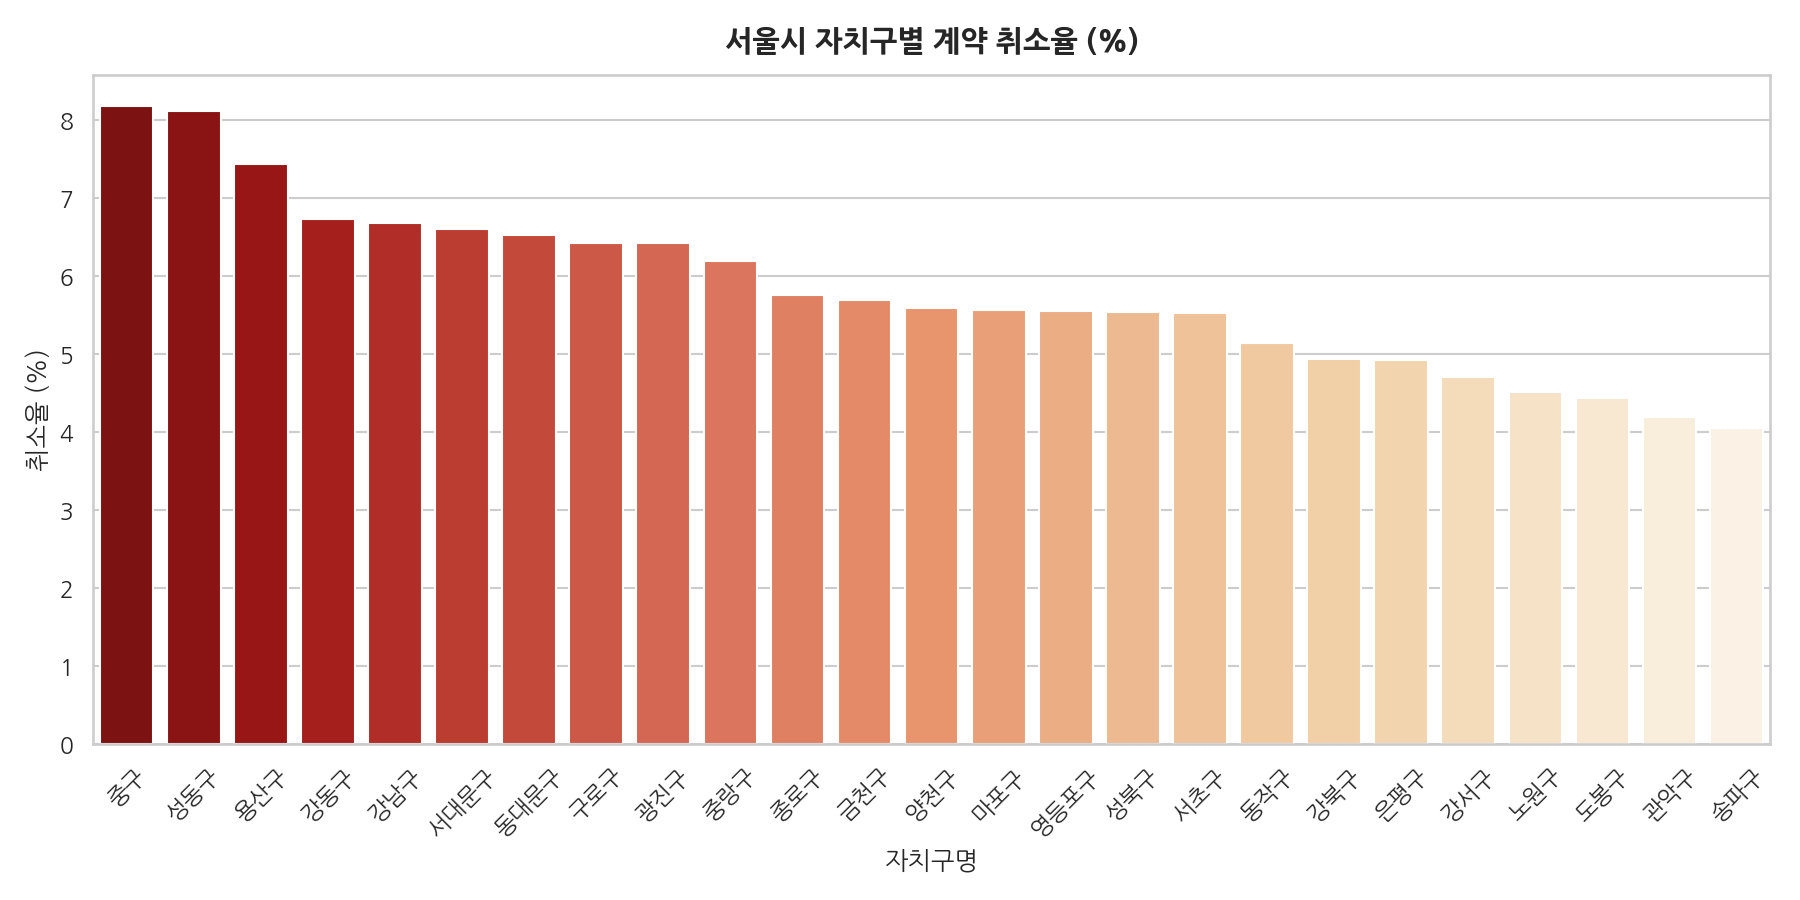
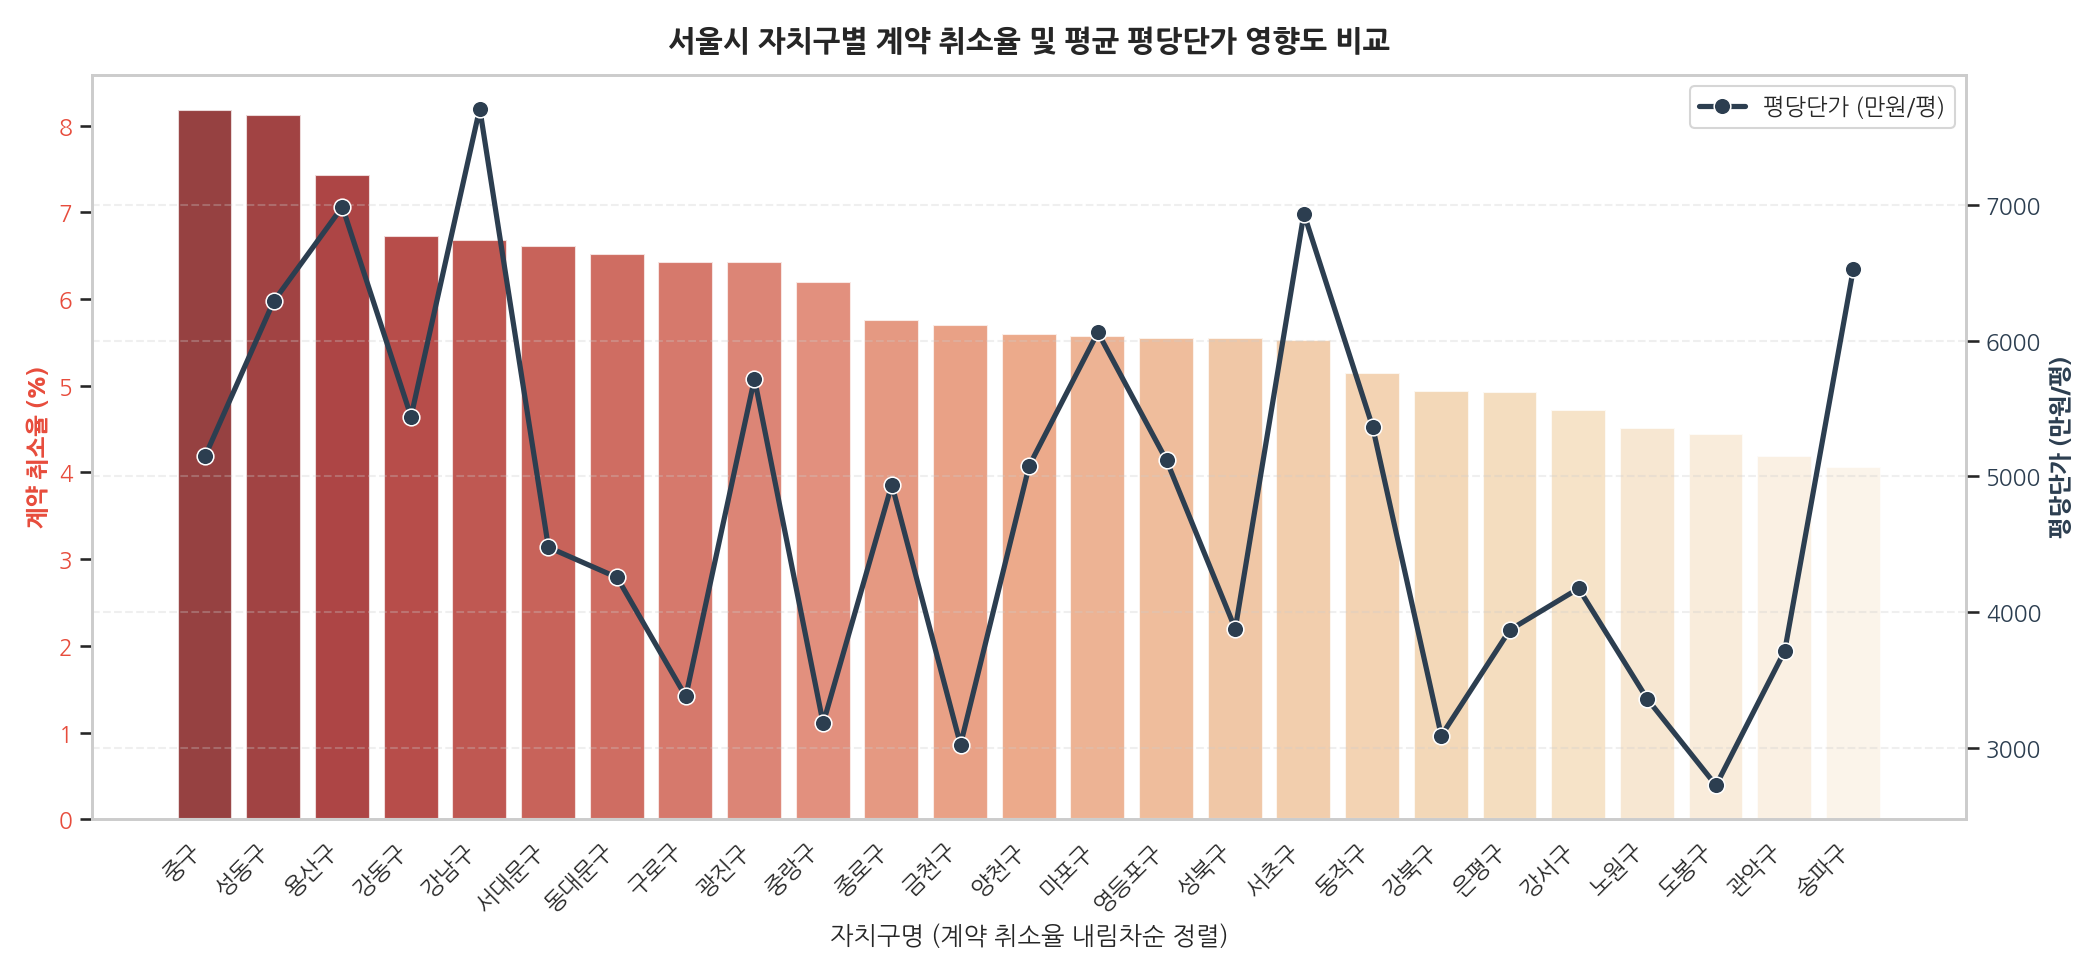
Enhance D1 cancel rate chart with twin-axis unit price line and update descriptions

diff --git a/pages/seoul-apartment-eda.md b/pages/seoul-apartment-eda.md
@@ -129,13 +129,14 @@ tags: ["pandas", "EDA", "시각화", "아파트실거래가"]
 ## 📊 시나리오 D. 거래 특이사항의 지역별 분포
 > **질문**: 계약 취소나 직거래 비율이 특정 자치구에 집중적으로 나타나는가?
 
-### ① 자치구별 계약 취소율 분석
-전체 실거래 신고 건수 대비 취소된 거래의 비중을 자치구별로 조사하였습니다.
+### ① 자치구별 계약 취소율 및 평당단가 영향도 분석
+전체 실거래 신고 건수 대비 취소된 거래의 비중을 자치구별로 조사하고, 자치구별 평균 평당단가(꺾은선)를 이중 축으로 함께 결합하여 취소율과의 연관성을 분석했습니다.
 
-![자치구별 계약 취소율](../images/D1_gu_cancel_rate.png)
+![자치구별 계약 취소율 및 평당단가](../images/D1_gu_cancel_rate.png)
 
 > **인사이트 💡**
-> 서울시 아파트의 평균 계약 취소율은 **5.70%** 수준으로 나타났으며, 특히 **중구(8.18%)**를 필두로 강남권 및 도심권 일부 지역에서 취소 비율이 높게 집계되었습니다. 단가가 높고 시장 관심도가 큰 지역일수록 호가 띄우기를 위한 자전거래 목적 혹은 계약 조건 변경에 따른 거래 취소 건의 모니터링 필요성이 제기됩니다.
+> 서울시 아파트의 평균 계약 취소율은 **5.70%** 수준으로 나타났으며, 특히 **중구(8.18%)**를 필두로 강남구, 성동구, 용산구 등 아파트 평당 단가(꺾은선)가 높게 형성된 고가 주거 밀집 지역들이 취소율 상위권에 대거 포진하고 있음이 실증되었습니다. 
+> 단가가 높고 자금 유입이 활발한 지역일수록 거래 파기율이 높다는 사실은, 시세 교란(호가 조작 등) 목적의 자전거래 징후나 가격 급변동에 따른 계약 번복 빈도가 고가 아파트 단지에서 한층 집중되어 나타나고 있음을 시사하므로 밀착 모니터링이 필요합니다.
 
 ---
 